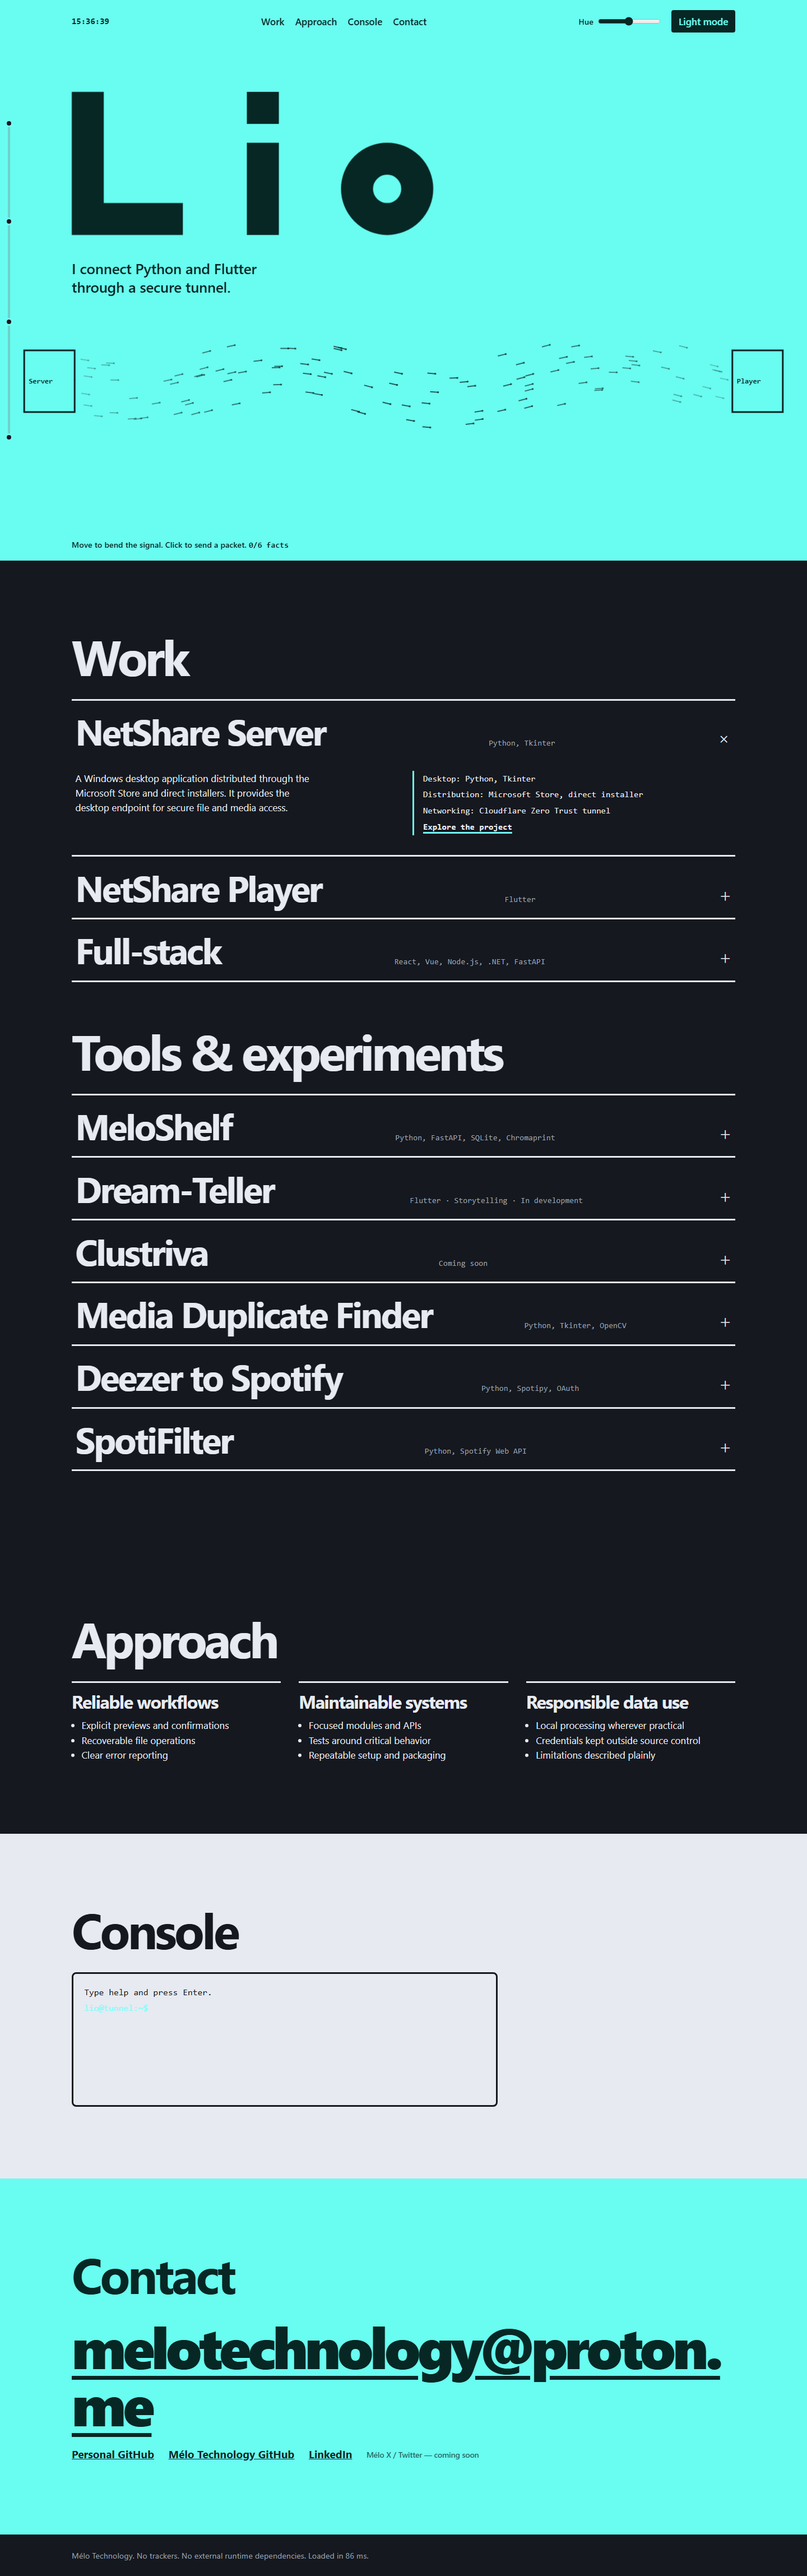
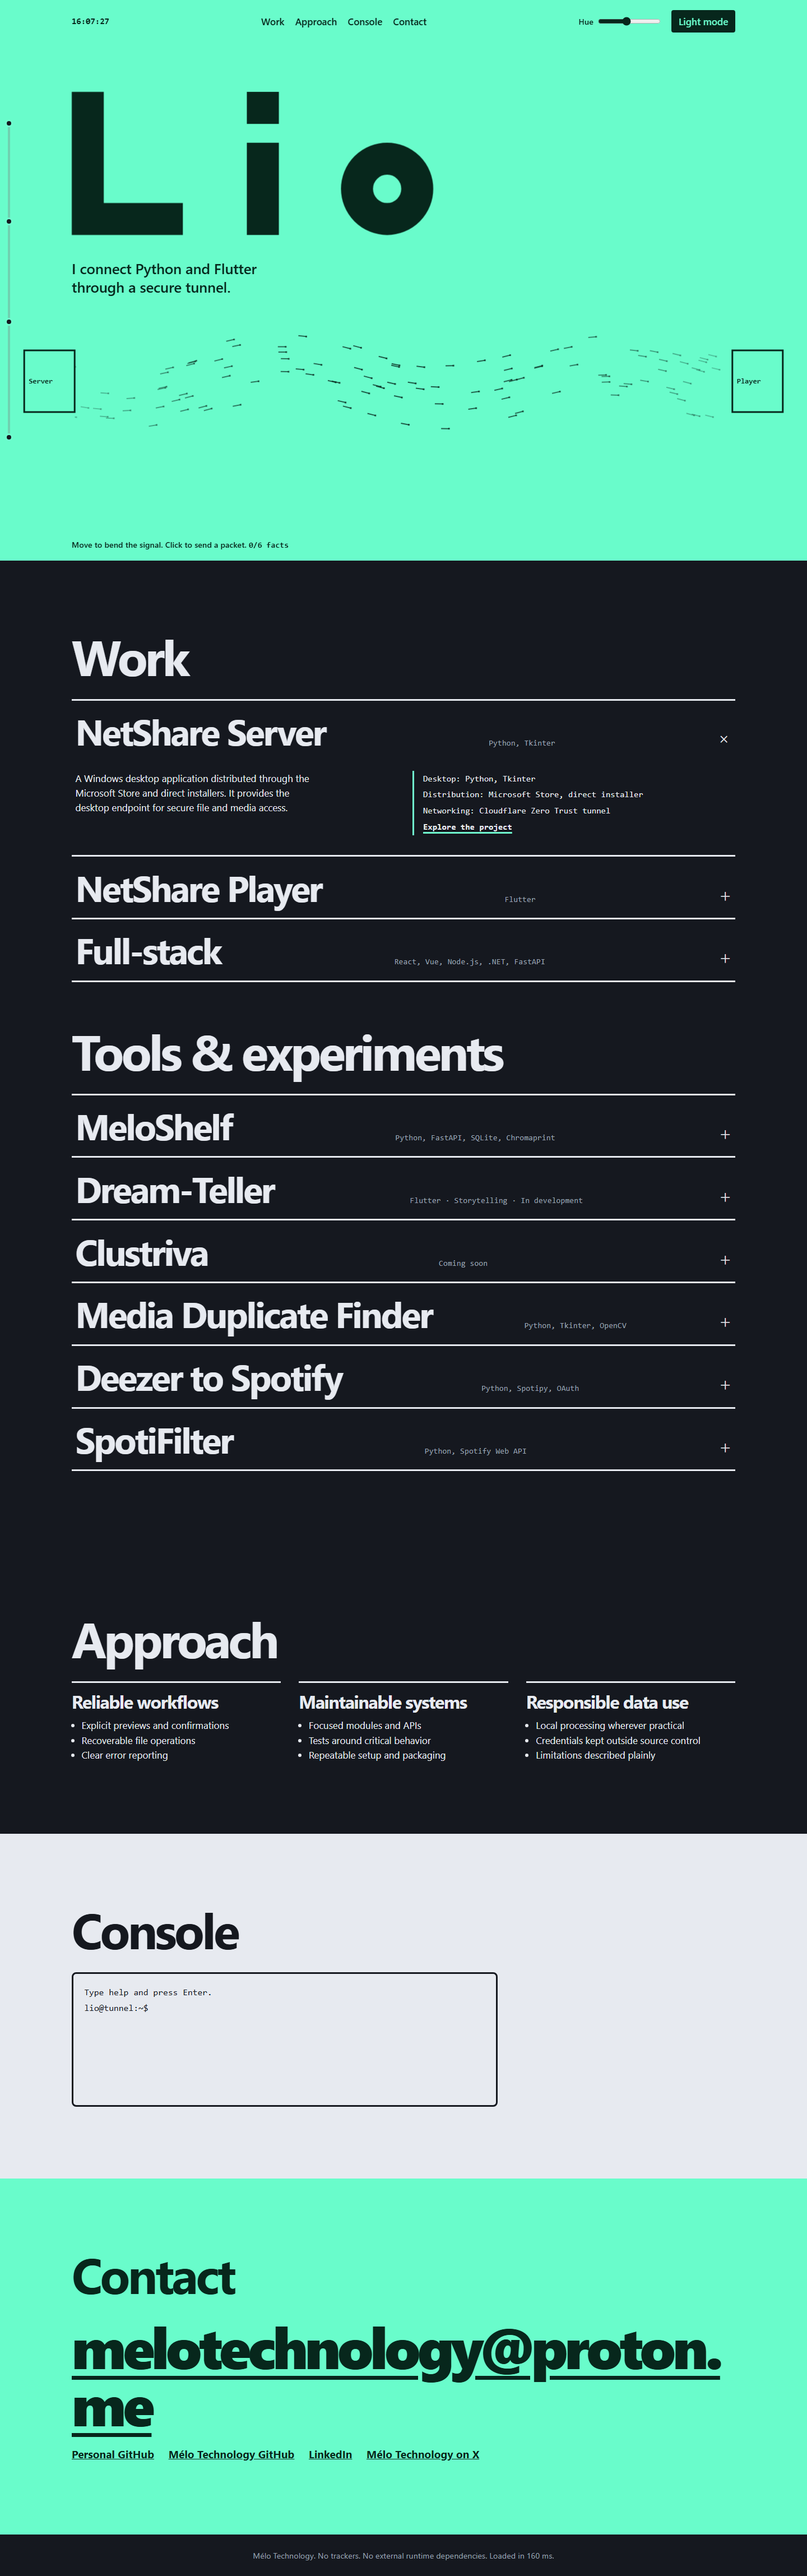
fix: center footer and publish official X link

diff --git a/index.html b/index.html
@@ -62,11 +62,11 @@ h2{font-size:clamp(2.4rem,7vw,5.5rem);letter-spacing:-.05em;line-height:.95;marg
 .term .p{display:flex;gap:.6rem}
 .term input{flex:1;min-width:0;background:none;border:0;color:inherit;font:inherit;outline:0}
 .term .box:focus-within{outline:3px solid var(--sig);outline-offset:3px}
-.term .ok{color:var(--sig);filter:brightness(1.1)}
+.term .ok{color:inherit}
 .cta{background:var(--fld);color:var(--on)}
 .mail{display:block;font-size:clamp(1.6rem,7.4vw,6.4rem);font-weight:900;letter-spacing:-.06em;line-height:1;text-decoration:underline;text-decoration-thickness:.07em;text-underline-offset:.12em;overflow-wrap:anywhere}
 .mail:hover{background:var(--on);color:var(--fld);text-decoration:none}
-footer{padding:1.6rem 0;font-size:.9rem;color:var(--mut)}
+footer{padding:1.6rem 0;font-size:.9rem;color:var(--mut);text-align:center}
 @media (max-width:900px){.rail{display:none}.w .b{grid-template-columns:1fr}}
 @media (max-width:640px){.ctl label{display:none}}
 @media (prefers-reduced-motion:reduce){html{scroll-behavior:auto}}
@@ -155,7 +155,7 @@ document.addEventListener('click',function(e){var a=e.target.closest&&e.target.c
 <section class="s cta" id="contact"><div class="wrap">
   <h2>Contact</h2>
   <a class="mail" href="mailto:melotechnology@proton.me">melotechnology@proton.me</a>
-  <p class="soc"><a href="https://github.com/Danieljucke" rel="noopener">Personal GitHub</a><a href="https://github.com/Melo-Technology" rel="noopener">Mélo Technology GitHub</a><a href="https://www.linkedin.com/in/joy-daniel-9428b9348" rel="noopener">LinkedIn</a><span title="Official brand account not yet verified">Mélo X / Twitter — coming soon</span></p>
+  <p class="soc"><a href="https://github.com/Danieljucke" rel="noopener">Personal GitHub</a><a href="https://github.com/Melo-Technology" rel="noopener">Mélo Technology GitHub</a><a href="https://www.linkedin.com/in/joy-daniel-9428b9348" rel="noopener">LinkedIn</a><a href="https://x.com/MeloTechnology_" rel="noopener">Mélo Technology on X</a></p>
 </div></section>
 </main>
 <footer><div class="wrap">Mélo Technology. No trackers. No external runtime dependencies.<span id="ld"></span></div></footer>
@@ -227,7 +227,7 @@ var STACKS={
  tooling:'Docker, Git, GitHub Actions, pytest, CI/CD',
  all:'Frontend / Mobile / Backend / Data / Tooling — type stack <category>'
 };
-var LINKS={personal:'https://github.com/Danieljucke',melo:'https://github.com/Melo-Technology',linkedin:'https://www.linkedin.com/in/joy-daniel-9428b9348',netshare:'https://www.netshareplayer.com/',email:'mailto:melotechnology@proton.me'};
+var LINKS={personal:'https://github.com/Danieljucke',melo:'https://github.com/Melo-Technology',linkedin:'https://www.linkedin.com/in/joy-daniel-9428b9348',twitter:'https://x.com/MeloTechnology_',netshare:'https://www.netshareplayer.com/',email:'mailto:melotechnology@proton.me'};
 var HELP=['help                       List commands','projects                   List all projects','project <name>             Project details','stack [category]           frontend / mobile / backend / data / tooling / all','ls [-a] | pwd | cat .tunnel.conf','whoami | status | date','links | github [personal|melo] | contact','open <project|link>        Open a verified page (on request only)','ping <server|player>       Simulated packet animation; not a network test','theme [light|dark|toggle]  Change visual theme','hue <0-360>               Change signal hue','history | clear','Tab = autocomplete · Up/Down = command history'];
 var history=[],historyCursor=0;
 function projectNames(){return Object.keys(PROJECTS)}
@@ -243,9 +243,9 @@ C.pwd=function(){say('/home/lio/portfolio')};
 C.cat=function(a){if(a[0]==='.tunnel.conf'){['# Illustrative configuration only','mode = simulated','transports = desktop + mobile','secrets = never displayed'].forEach(function(x){say(x)})}else{say('No such demo file. Try: cat .tunnel.conf')}};
 C.status=function(){say('Portfolio: online demo | Terminal: sandboxed in browser | Network requests: none','ok');say('Dream-Teller: in development | Clustriva: coming soon')};
 C.date=function(){say(new Date().toLocaleString('en-GB'))};
-C.links=function(){say('Personal GitHub: '+LINKS.personal);say('Mélo GitHub: '+LINKS.melo);say('LinkedIn: '+LINKS.linkedin);say('NetShare: '+LINKS.netshare);say('Mélo X / Twitter: not verified yet')};
+C.links=function(){say('Personal GitHub: '+LINKS.personal);say('Mélo GitHub: '+LINKS.melo);say('LinkedIn: '+LINKS.linkedin);say('NetShare: '+LINKS.netshare);say('Mélo Technology on X: '+LINKS.twitter)};
 C.github=function(a){var k=(a[0]||'personal').toLowerCase();if(k==='melo'){say(LINKS.melo,'ok')}else if(k==='personal'){say(LINKS.personal,'ok')}else{say('Try: github personal or github melo')}};
-C.twitter=function(){say('Mélo Technology X / Twitter link pending verification; no URL has been published.')};
+C.twitter=function(){say(LINKS.twitter,'ok')};
 C.contact=C.hire=function(){say('melotechnology@proton.me','ok')};
 C.open=function(a){var key=(a[0]||'').toLowerCase();if(PROJECTS[key])return openUrl(PROJECTS[key].url);if(LINKS[key])return openUrl(LINKS[key]);say('Unknown or unpublished link. Try projects or links.')};
 C.ping=function(a){var target=(a[0]||'').toLowerCase();if(target!=='server'&&target!=='player'){say('Usage: ping server | ping player');return}say('Sending simulated packets to '+target+' (demo only; no network request).','ok');for(var i=0;i<3;i++)pk.push({t:0,l:i-1,h:'0x'+(160+i*7).toString(16)})};

diff --git a/tests/static_validation.py b/tests/static_validation.py
@@ -42,11 +42,11 @@ for page in PAGES:
 home = PAGES[0].read_text(encoding="utf-8")
 required = [
     "Dream-Teller", "In development", "Clustriva", "Coming soon",
-    "https://github.com/Melo-Technology", "X / Twitter link pending verification",
+    "https://github.com/Melo-Technology", "https://x.com/MeloTechnology_",
     "Google Play", "Huawei AppGallery", "iOS support planned",
 ]
 for text in required:
     assert text in home, text
-assert "twitter.com/" not in home.lower() and "x.com/" not in home.lower()
+assert "twitter.com/" not in home.lower()
 assert "Chargée en" not in home
 print("Static validation passed for four HTML pages and all local links.")

diff --git a/tests/browser_validation.py b/tests/browser_validation.py
@@ -85,7 +85,7 @@ with sync_playwright() as playwright:
     for command in commands:
         run_command(page, command)
     output = page.locator("#out").inner_text()
-    for expected in ("In development", "Coming soon", "Melo-Technology", "pending verification", "simulated"):
+    for expected in ("In development", "Coming soon", "Melo-Technology", "x.com/MeloTechnology_", "simulated"):
         assert expected.lower() in output.lower(), expected
     page.locator("#in").press("ArrowUp")
     assert page.locator("#in").input_value() == "history"

diff --git a/docs/validation/claude-corrected/README.md b/docs/validation/claude-corrected/README.md
@@ -30,7 +30,7 @@ The screenshots were captured from a local HTTP server with real Playwright Chro
 - Reduced-motion emulation passed.
 - All local links and fragments resolve; the four documents use `lang="en"`.
 - Dream-Teller remains `In development`; Clustriva remains `Coming soon`.
-- The Mélo Technology GitHub URL is preserved. No X/Twitter URL is published.
+- The Mélo Technology GitHub URL is preserved, and the owner-confirmed X URL is linked.
 - `html-validate`, Node syntax checks for all eight inline JavaScript blocks, and `git diff --check` passed.
 
 Machine-readable browser results are in [browser-results.json](browser-results.json). Reproducible validation scripts are stored in `tests/`.
